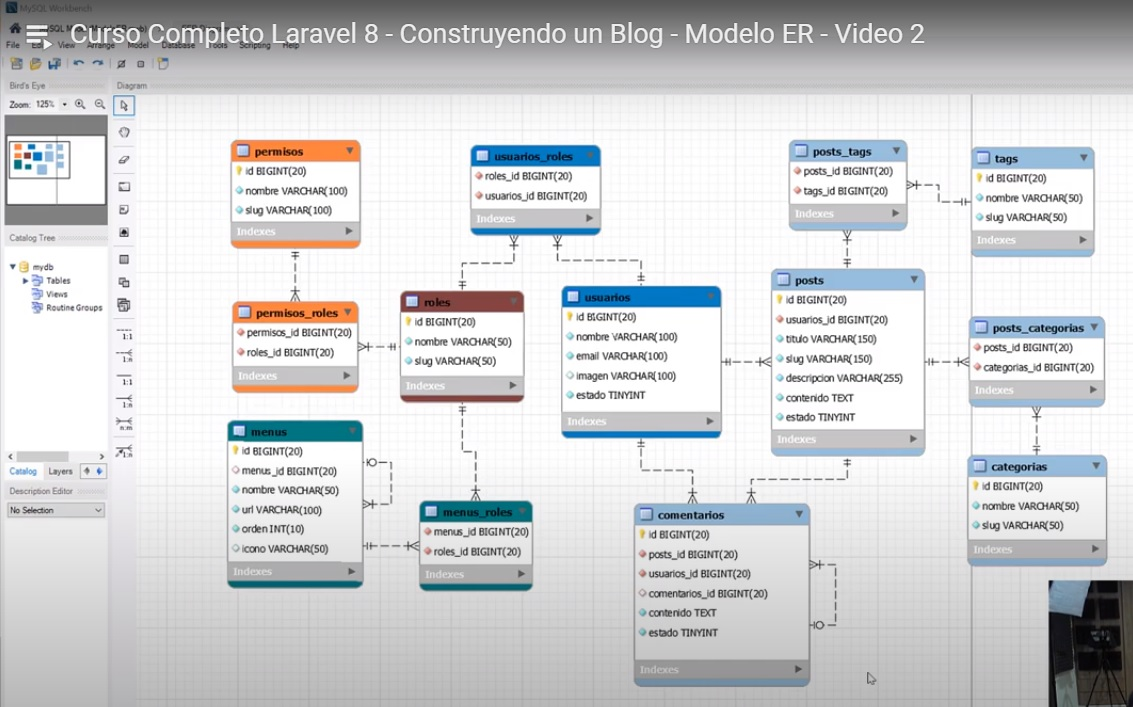
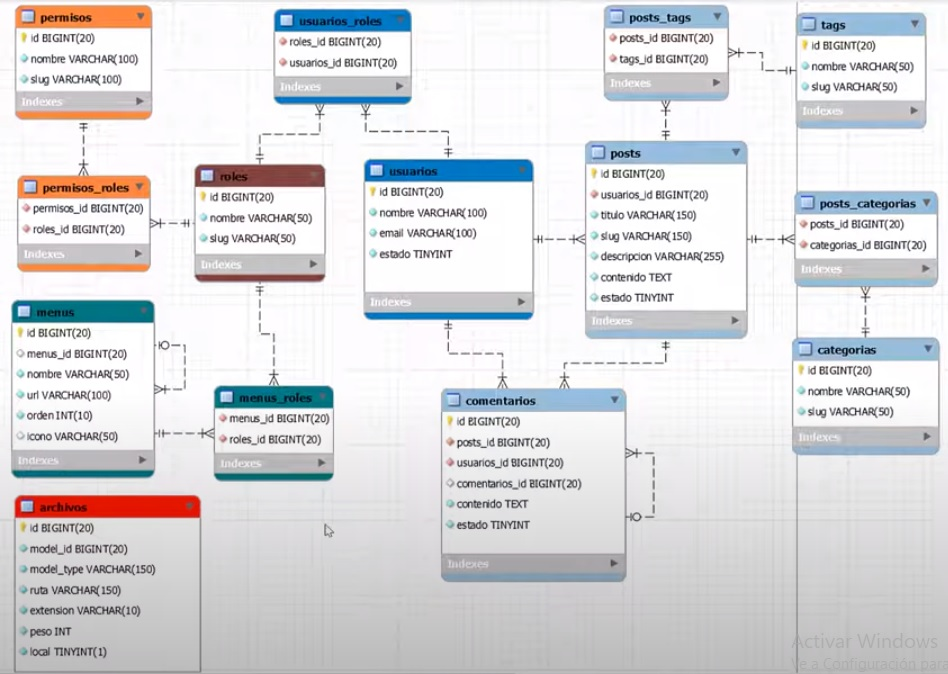
Usuario/Rol
Crear Modelo y Controlador para Usuarios y roles
Crear relacion de mucho a muchos entre Usuario y modelo
crear Comando para crear al Super usuario

diff --git a/app/Console/Commands/Instalador.php b/app/Console/Commands/Instalador.php
@@ -1,0 +1,79 @@
+<?php
+
+namespace App\Console\Commands;
+
+use App\Models\Rol;
+use App\Models\Usuario;
+use Illuminate\Console\Command;
+use Illuminate\Support\Str;
+use Illuminate\Support\Facades\Hash;
+
+class Instalador extends Command
+{
+    /**
+     * The name and signature of the console command.
+     *
+     * @var string
+     */
+    protected $signature = 'myblog:install';
+
+    /**
+     * The console command description.
+     *
+     * @var string
+     */
+    protected $description = 'Este comando ejecuta el instalador inicial del proyecto';
+
+    /**
+     * Create a new command instance.
+     *
+     * @return void
+     */
+    public function __construct()
+    {
+        parent::__construct();
+    }
+
+    /**
+     * Execute the console command.
+     *
+     * @return int
+     */
+    public function handle()
+    {
+        if(!$this->verificar()){
+            $rol = $this->crearRolSuperAdmin();
+            $usuario = $this->crearUsuarioSuperAdmin();
+            $usuario->roles()->attach($rol);//relacion
+            $this->line('El Rol y Usuario Administrador se insalaron correctamente');
+        }else{
+            $this->error('No se puede ejecutar el instalador, porque ya hay un rol super Administrador creado');
+        }
+
+    }
+
+    private function verificar(){//Veifica si esxite el rol id =1
+        return Rol::find(1);
+
+    }
+
+    private function crearRolSuperAdmin(){
+        $rol = "Super Administrador";
+        return Rol::create([
+            'nombre' => $rol,
+            'slug' => Str::slug($rol, '_')
+        ]);
+
+
+    }
+
+    private function crearUsuarioSuperAdmin(){
+        $usuario = "admin";
+        return Usuario::create([
+            'nombre' => $usuario,
+            'email' => 'enniosaenz@gmail.com',
+            'password' => Hash::make('pass1234'),
+            'estado' => 1
+        ]);
+    }
+}

diff --git a/app/Http/Controllers/UsuarioController.php b/app/Http/Controllers/UsuarioController.php
@@ -1,0 +1,85 @@
+<?php
+
+namespace App\Http\Controllers;
+
+use App\Models\Usuario;
+use Illuminate\Http\Request;
+
+class UsuarioController extends Controller
+{
+    /**
+     * Display a listing of the resource.
+     *
+     * @return \Illuminate\Http\Response
+     */
+    public function index()
+    {
+        //
+    }
+
+    /**
+     * Show the form for creating a new resource.
+     *
+     * @return \Illuminate\Http\Response
+     */
+    public function create()
+    {
+        //
+    }
+
+    /**
+     * Store a newly created resource in storage.
+     *
+     * @param  \Illuminate\Http\Request  $request
+     * @return \Illuminate\Http\Response
+     */
+    public function store(Request $request)
+    {
+        //
+    }
+
+    /**
+     * Display the specified resource.
+     *
+     * @param  \App\Models\Usuario  $usuario
+     * @return \Illuminate\Http\Response
+     */
+    public function show(Usuario $usuario)
+    {
+        //
+    }
+
+    /**
+     * Show the form for editing the specified resource.
+     *
+     * @param  \App\Models\Usuario  $usuario
+     * @return \Illuminate\Http\Response
+     */
+    public function edit(Usuario $usuario)
+    {
+        //
+    }
+
+    /**
+     * Update the specified resource in storage.
+     *
+     * @param  \Illuminate\Http\Request  $request
+     * @param  \App\Models\Usuario  $usuario
+     * @return \Illuminate\Http\Response
+     */
+    public function update(Request $request, Usuario $usuario)
+    {
+        //
+    }
+
+    /**
+     * Remove the specified resource from storage.
+     *
+     * @param  \App\Models\Usuario  $usuario
+     * @return \Illuminate\Http\Response
+     */
+    public function destroy(Usuario $usuario)
+    {
+        //
+    }
+}

diff --git a/app/Http/Controllers/RolController.php b/app/Http/Controllers/RolController.php
@@ -1,0 +1,85 @@
+<?php
+
+namespace App\Http\Controllers;
+
+use App\Models\Rol;
+use Illuminate\Http\Request;
+
+class RolController extends Controller
+{
+    /**
+     * Display a listing of the resource.
+     *
+     * @return \Illuminate\Http\Response
+     */
+    public function index()
+    {
+        //
+    }
+
+    /**
+     * Show the form for creating a new resource.
+     *
+     * @return \Illuminate\Http\Response
+     */
+    public function create()
+    {
+        //
+    }
+
+    /**
+     * Store a newly created resource in storage.
+     *
+     * @param  \Illuminate\Http\Request  $request
+     * @return \Illuminate\Http\Response
+     */
+    public function store(Request $request)
+    {
+        //
+    }
+
+    /**
+     * Display the specified resource.
+     *
+     * @param  \App\Models\rol  $rol
+     * @return \Illuminate\Http\Response
+     */
+    public function show(rol $rol)
+    {
+        //
+    }
+
+    /**
+     * Show the form for editing the specified resource.
+     *
+     * @param  \App\Models\rol  $rol
+     * @return \Illuminate\Http\Response
+     */
+    public function edit(rol $rol)
+    {
+        //
+    }
+
+    /**
+     * Update the specified resource in storage.
+     *
+     * @param  \Illuminate\Http\Request  $request
+     * @param  \App\Models\rol  $rol
+     * @return \Illuminate\Http\Response
+     */
+    public function update(Request $request, rol $rol)
+    {
+        //
+    }
+
+    /**
+     * Remove the specified resource from storage.
+     *
+     * @param  \App\Models\rol  $rol
+     * @return \Illuminate\Http\Response
+     */
+    public function destroy(rol $rol)
+    {
+        //
+    }
+}

diff --git a/database/migrations/2021_04_13_185719_crear_tabla_archivos.php b/database/migrations/2021_04_13_185719_crear_tabla_archivos.php
@@ -4,7 +4,7 @@ use Illuminate\Database\Migrations\Migration;
 use Illuminate\Database\Schema\Blueprint;
 use Illuminate\Support\Facades\Schema;
 
-class CreateUsersTable extends Migration
+class CrearTablaArchivos extends Migration
 {
     /**
      * Run the migrations.
@@ -13,14 +13,14 @@ class CreateUsersTable extends Migration
      */
     public function up()
     {
-        Schema::create('usuarios', function (Blueprint $table) {
+        Schema::create('archivos', function (Blueprint $table) {
             $table->id();
-            $table->string('nombre');
-            $table->string('email')->unique();
-            $table->boolean('estado')->default(1);
-            $table->timestamp('email_verified_at')->nullable();
-            $table->string('password');
-            $table->rememberToken();
+            $table->unsignedBigInteger('model_id');
+            $table->string('model_type', '150');
+            $table->string('ruta', '150');
+            $table->string('extencion', '10');
+            $table->integer('peso');
+            $table->boolean('local')->default();
             $table->timestamps();
         });
     }
@@ -32,6 +32,6 @@ class CreateUsersTable extends Migration
      */
     public function down()
     {
-        Schema::dropIfExists('usuarios');
+        Schema::dropIfExists('archivos');
     }
 }

diff --git a/app/Models/Usuario.php b/app/Models/Usuario.php
@@ -1,0 +1,16 @@
+<?php
+
+namespace App\Models;
+
+use Illuminate\Database\Eloquent\Factories\HasFactory;
+use Illuminate\Database\Eloquent\Model;
+
+class Usuario extends Model
+{
+    use HasFactory;
+    protected $guarded = [];
+
+    public function roles(){//Relacion ManyToMany
+        return $this->belongsToMany(Rol::class,'usuarios_roles','usuarios_id', 'roles_id');//relacion con clase Rol mediante tabla puete usuarios roles
+    }
+}

diff --git a/app/Models/Rol.php b/app/Models/Rol.php
@@ -1,0 +1,14 @@
+<?php
+
+namespace App\Models;
+
+use Illuminate\Database\Eloquent\Factories\HasFactory;
+use Illuminate\Database\Eloquent\Model;
+
+class Rol extends Model
+{
+    protected $table = 'roles';
+    protected $guarded = [];
+    use HasFactory;
+
+}

diff --git a/app/Models/UsuarioRol.php b/app/Models/UsuarioRol.php
@@ -1,0 +1,13 @@
+<?php
+
+namespace App\Models;
+
+use Illuminate\Database\Eloquent\Factories\HasFactory;
+use Illuminate\Database\Eloquent\Model;
+
+class UsuarioRol extends Model
+{
+    protected $table = 'usuarios_roles';
+    use HasFactory;
+
+}
